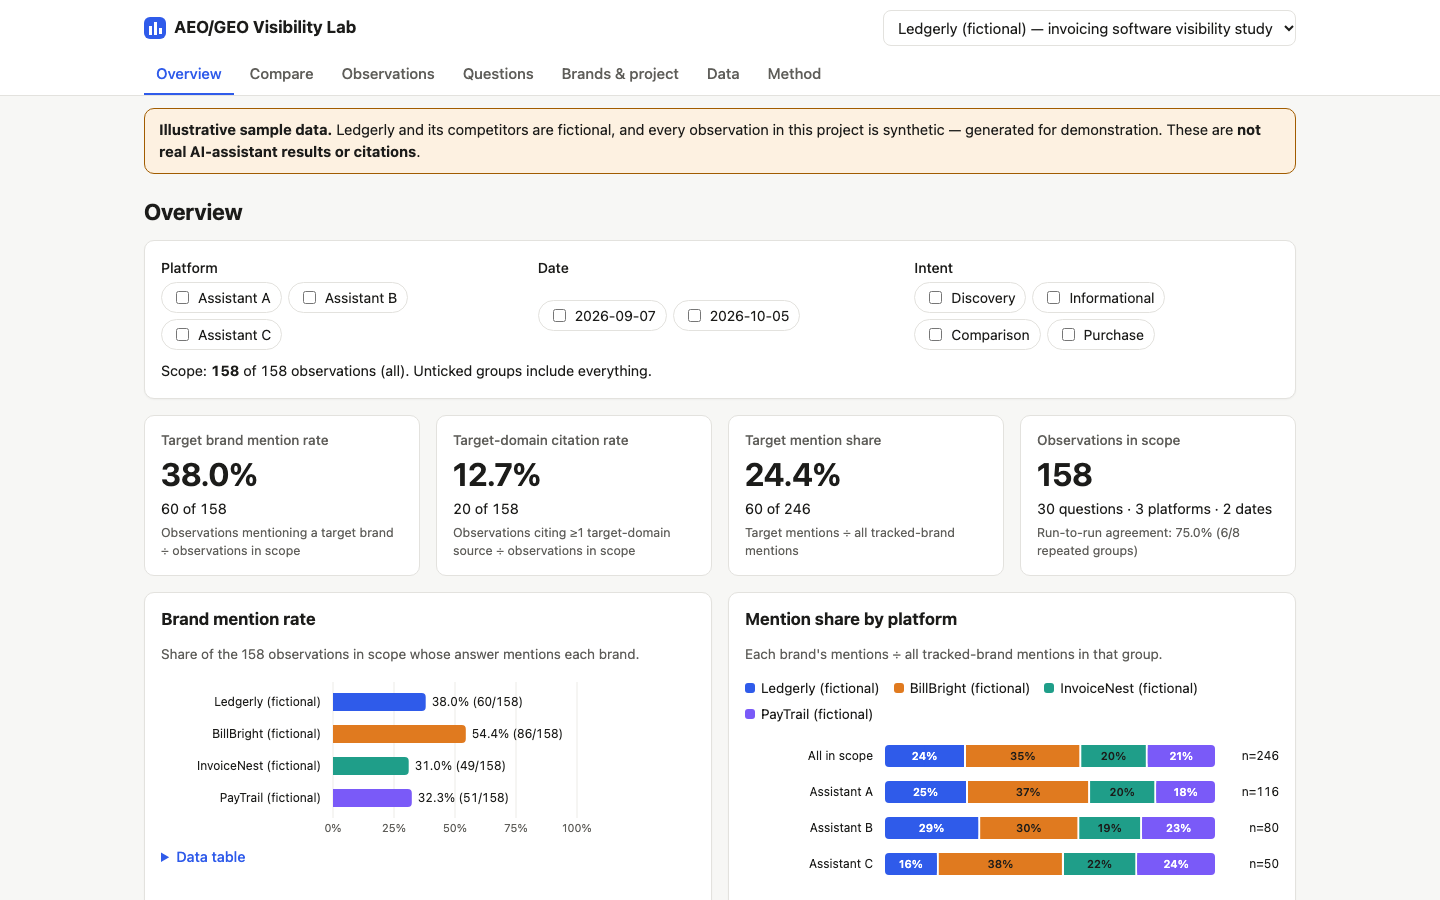
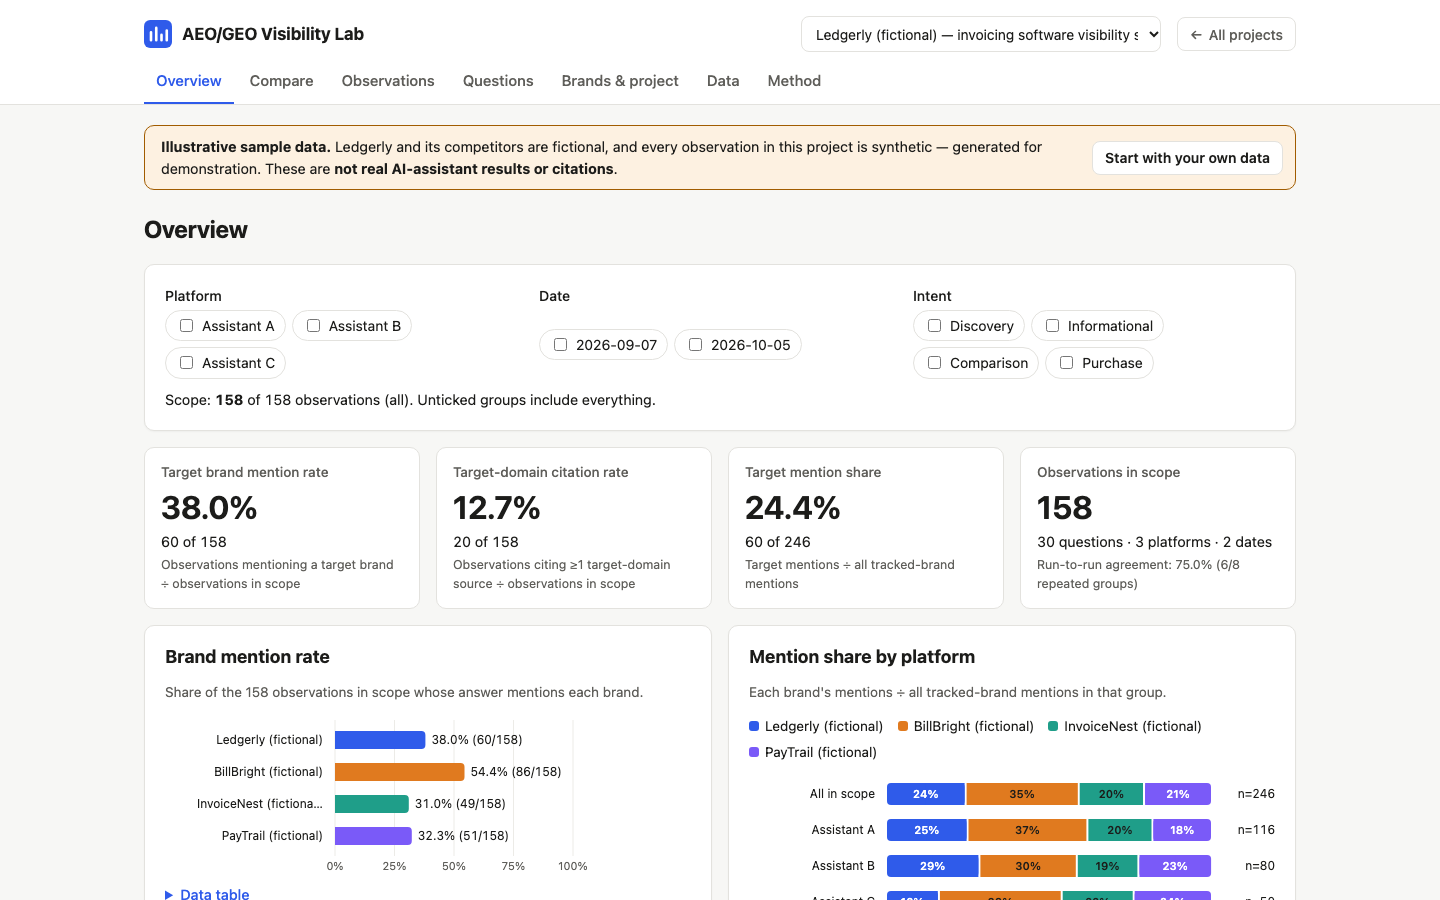
Consistent header and footer, sticky footer, sample loaded on first visit

diff --git a/src/styles.css b/src/styles.css
@@ -66,30 +66,10 @@ code { font-size: 0.9em; background: var(--empty); padding: 1px 4px; border-radi
 .skip-link:focus { left: 8px; }
 
 .container { max-width: 1200px; margin: 0 auto; padding: 0 24px; }
-main.container { padding-top: 20px; padding-bottom: 40px; min-height: 60vh; }
 main:focus { outline: none; }
 
-/* top bar */
-.topbar { background: var(--surface); border-bottom: 1px solid var(--border); position: sticky; top: 0; z-index: 20; }
-.topbar-inner { max-width: 1200px; margin: 0 auto; padding: 10px 24px 0; }
-.brand-row { display: flex; align-items: center; justify-content: space-between; gap: 12px; flex-wrap: wrap; }
-.app-name { display: inline-flex; align-items: center; gap: 8px; font-weight: 700; color: var(--text); text-decoration: none; font-size: 1.05rem; }
-.logo { width: 22px; height: 22px; border-radius: 6px; background: var(--accent);
-  background-image: linear-gradient(to top, #fff 0 0), linear-gradient(to top, #fff 0 0), linear-gradient(to top, #fff 0 0);
-  background-size: 3px 9px, 3px 13px, 3px 6px; background-position: 5px 9px, 10px 5px, 15px 11px; background-repeat: no-repeat; }
-.project-picker select { max-width: min(420px, 70vw); }
-.tabs { display: flex; gap: 4px; overflow-x: auto; margin-top: 8px; scrollbar-width: thin; }
-.tabs a { padding: 8px 12px; color: var(--muted); text-decoration: none; border-bottom: 2px solid transparent; white-space: nowrap; font-weight: 500; }
-.tabs a:hover { color: var(--text); }
-.tabs a[aria-current="page"] { color: var(--accent); border-bottom-color: var(--accent); }
-
-.banner-wrap { max-width: 1200px; margin: 0 auto; padding: 0 24px; }
-.banner { margin-top: 12px; padding: 10px 14px; border-radius: var(--radius); border: 1px solid; font-size: 0.92rem; }
-.banner.illustrative { background: var(--warn-weak); border-color: var(--warn); color: var(--text); }
-.banner.warn { background: var(--bad-weak); border-color: var(--bad); }
 
 /* cards and layout */
-.page-title { font-size: 1.4rem; margin: 4px 0 14px; }
 .card { background: var(--surface); border: 1px solid var(--border); border-radius: var(--radius); padding: 16px; margin-bottom: 16px; box-shadow: var(--shadow); min-width: 0; }
 .grid-2 { display: grid; grid-template-columns: repeat(2, minmax(0, 1fr)); gap: 16px; }
 .grid-2 > .card { margin-bottom: 0; }
@@ -102,7 +82,6 @@ main:focus { outline: none; }
 .small { font-size: 0.85rem; }
 .nowrap { white-space: nowrap; }
 .count { display: inline-block; min-width: 22px; padding: 0 6px; border-radius: 999px; background: var(--empty); color: var(--muted); font-size: 0.8rem; text-align: center; vertical-align: middle; font-weight: 600; }
-.hero h1 { font-size: 1.6rem; }
 .hero form { margin: 16px 0 8px; }
 
 /* tiles */
@@ -214,7 +193,6 @@ details > .table-wrap { margin-top: 8px; }
 .status.show { opacity: 1; transform: translateX(-50%) translateY(0); }
 .status.error { background: var(--bad); color: #fff; }
 
-.footer { border-top: 1px solid var(--border); padding: 18px 0 28px; color: var(--muted); font-size: 0.88rem; background: var(--surface); }
 
 @media (max-width: 900px) {
   .grid-2 { grid-template-columns: minmax(0, 1fr); }
@@ -225,7 +203,7 @@ details > .table-wrap { margin-top: 8px; }
   .filters-grid { grid-template-columns: minmax(0, 1fr); }
 }
 @media (max-width: 600px) {
-  .container, .topbar-inner, .banner-wrap { padding-left: 16px; padding-right: 16px; }
+  .container { padding-left: 16px; padding-right: 16px; }
   .form-grid { grid-template-columns: minmax(0, 1fr); }
   .span-2 { grid-column: auto; }
   .tiles { grid-template-columns: minmax(0, 1fr); }
@@ -233,8 +211,119 @@ details > .table-wrap { margin-top: 8px; }
   .controls, .toolbar { grid-template-columns: minmax(0, 1fr); }
   .toolbar .field:first-child { grid-column: auto; }
   .card { padding: 14px; }
-  .project-picker { width: 100%; }
-  .project-picker select { max-width: 100%; }
 }
 @media (prefers-reduced-motion: reduce) { .status { transition: none; } }
-@media print { .topbar, .footer, .status, .btn { display: none; } }
+@media print { .status, .btn { display: none; } }
+
+/* ===== Shared portfolio chrome v1 — identical in all five Dash-boop0 apps (keep in sync) ===== */
+:root { --chrome-ink: #FFFFFF; --chrome-shadow: 0 1px 2px rgba(0, 0, 0, 0.04); --chrome-gutter: 24px; }
+@media (prefers-color-scheme: dark) { :root { --chrome-ink: #141413; --chrome-shadow: none; } }
+@media (max-width: 600px) { :root { --chrome-gutter: 16px; } }
+
+/* Sticky-footer layout: footer sits at the viewport bottom or after the content, never mid-screen. */
+html { background: var(--bg); }
+body { margin: 0; min-height: 100vh; min-height: 100dvh; display: flex; flex-direction: column; background: var(--bg); }
+main.site-main {
+  flex: 1 0 auto; width: 100%; max-width: 1200px; min-width: 0; margin: 0 auto;
+  padding: 32px var(--chrome-gutter) 48px; outline: none;
+}
+body:has(.site-banner:not(:empty):not([hidden])) main.site-main { padding-top: 24px; }
+
+/* Header */
+.site-header { position: sticky; top: 0; z-index: 30; background: var(--surface); border-bottom: 1px solid var(--border); flex: none; }
+.site-header__inner { max-width: 1200px; margin: 0 auto; padding: 0 var(--chrome-gutter); }
+.site-header__top { display: flex; align-items: center; flex-wrap: wrap; gap: 8px 16px; min-height: 56px; padding-top: 12px; }
+.site-brand {
+  display: inline-flex; align-items: center; gap: 10px; min-width: 0; margin-right: auto; height: 36px;
+  color: var(--text); text-decoration: none; font-size: 1.0625rem; font-weight: 700; letter-spacing: -0.005em; line-height: 1.2;
+}
+.site-brand__icon { width: 28px; height: 28px; flex: none; display: block; }
+.site-brand__icon rect { fill: var(--accent); }
+.site-brand__icon .glyph-s { fill: none; stroke: var(--chrome-ink); stroke-linecap: round; stroke-linejoin: round; }
+.site-brand__icon .glyph-f { fill: var(--chrome-ink); }
+.site-brand__name { min-width: 0; overflow: hidden; text-overflow: ellipsis; white-space: nowrap; }
+.site-header__extra { display: flex; align-items: center; gap: 8px 12px; min-width: 0; font-size: 0.875rem; color: var(--muted); }
+.site-header__extra:empty { display: none; }
+.site-header__extra select { min-height: 36px; max-width: min(360px, 40vw); }
+.site-home {
+  display: inline-flex; align-items: center; gap: 6px; flex: none; height: 34px; padding: 0 12px;
+  border: 1px solid var(--border); border-radius: 8px; background: var(--surface);
+  color: var(--muted); font-size: 0.875rem; font-weight: 500; text-decoration: none; white-space: nowrap;
+}
+.site-home:hover { color: var(--text); border-color: var(--accent); }
+.site-tabs {
+  display: flex; gap: 4px; margin: 4px calc(-1 * var(--chrome-gutter)) 0; padding: 0 var(--chrome-gutter);
+  overflow-x: auto; overscroll-behavior-x: contain; scrollbar-width: none; -webkit-overflow-scrolling: touch;
+}
+.site-tabs::-webkit-scrollbar { display: none; }
+.site-tabs a {
+  flex: none; display: block; padding: 10px 12px 11px; border-bottom: 2px solid transparent;
+  color: var(--muted); font-size: 0.9375rem; font-weight: 500; line-height: 1.4; text-decoration: none; white-space: nowrap;
+}
+.site-tabs a:hover { color: var(--text); }
+.site-tabs a[aria-current="page"] { color: var(--accent); border-bottom-color: var(--accent); }
+.site-tabs a:focus-visible { outline: 3px solid var(--accent); outline-offset: -3px; border-radius: 6px; }
+
+/* Synthetic-data banner (with "Start with your own data") */
+.site-banner { width: 100%; max-width: 1200px; margin: 0 auto; padding: 20px var(--chrome-gutter) 0; flex: none; }
+.site-banner:empty, .site-banner[hidden] { display: none; }
+.sample-banner {
+  display: flex; align-items: center; justify-content: space-between; flex-wrap: wrap; gap: 10px 16px;
+  margin: 0; padding: 10px 12px 10px 16px; border: 1px solid var(--warn); border-radius: 10px;
+  background: var(--warn-weak); color: var(--text); font-size: 0.9rem; line-height: 1.5;
+}
+.sample-banner + .sample-banner { margin-top: 8px; }
+.sample-banner.is-error { border-color: var(--bad); background: var(--bad-weak); }
+.sample-banner.is-info { border-color: var(--border); background: var(--surface); }
+.sample-banner__text { flex: 1 1 420px; min-width: 0; margin: 0; }
+.sample-banner__text strong { color: var(--text); }
+.sample-banner__action {
+  flex: none; display: inline-flex; align-items: center; justify-content: center; min-height: 34px; padding: 0 12px;
+  border: 1px solid var(--border); border-radius: 8px; background: var(--surface); color: var(--text);
+  font: inherit; font-size: 0.875rem; font-weight: 600; white-space: nowrap; cursor: pointer;
+}
+.sample-banner__action:hover { border-color: var(--accent); color: var(--accent); }
+
+/* Page titles and cards */
+:where(.site-main) h2 { font-size: 1.125rem; }
+:where(.site-main) h3 { font-size: 1rem; }
+.site-main h1 { font-size: 1.5rem; font-weight: 700; line-height: 1.25; letter-spacing: -0.01em; margin: 0 0 20px; }
+.site-main .page-head:has(h1) { display: flex; flex-wrap: wrap; align-items: flex-end; justify-content: space-between; gap: 8px 16px; margin: 0 0 20px; }
+.site-main .page-head h1 { margin: 0; }
+.site-main .page-head:has(h1) p, .site-main .page-head:has(h1) > .muted, .site-main .page-lead { margin: 4px 0 0; color: var(--muted); max-width: 75ch; }
+:where(.site-main) .card { border: 1px solid var(--border); border-radius: 10px; background: var(--surface); padding: 20px; box-shadow: var(--chrome-shadow); }
+:where(.site-main) .card.empty, :where(.site-main) .empty-state { padding: 48px 24px; text-align: center; }
+:where(.site-main) .card.empty > *, :where(.site-main) .empty-state > * { margin-left: auto; margin-right: auto; max-width: 560px; }
+:where(.site-main) .card.empty h2, :where(.site-main) .empty-state h2, :where(.site-main) .empty-state h3 { font-size: 1.15rem; margin-bottom: 8px; }
+
+/* Footer */
+.site-footer { flex: none; margin-top: auto; border-top: 1px solid var(--border); background: var(--bg); color: var(--muted); font-size: 0.875rem; line-height: 1.5; }
+.site-footer__inner {
+  max-width: 1200px; margin: 0 auto; padding: 24px var(--chrome-gutter);
+  display: flex; flex-wrap: wrap; align-items: center; justify-content: space-between; gap: 8px 24px;
+}
+.site-footer__links { display: flex; flex-wrap: wrap; gap: 6px 20px; }
+.site-footer a { color: var(--muted); text-decoration: underline; text-underline-offset: 3px; }
+.site-footer a:hover { color: var(--text); }
+.site-footer__note { margin: 0; }
+
+@media (max-width: 600px) {
+  main.site-main { padding-top: 20px; padding-bottom: 32px; }
+  body:has(.site-banner:not(:empty):not([hidden])) main.site-main { padding-top: 20px; }
+  .site-header__top { padding-top: 10px; gap: 8px 12px; }
+  .site-brand { font-size: 1rem; height: auto; min-height: 36px; max-width: calc(100% - 144px); }
+  .site-brand__name { white-space: normal; overflow: visible; }
+  .site-header__extra { order: 3; flex: 1 1 100%; }
+  .site-header__extra select { max-width: 100%; width: 100%; }
+  .site-tabs { margin-top: 2px; }
+  .site-tabs a { padding: 10px 10px 11px; }
+  .site-banner { padding-top: 16px; }
+  .sample-banner__action { width: 100%; }
+  .site-main h1 { font-size: 1.3rem; margin-bottom: 16px; }
+  .site-main .page-head:has(h1) { margin-bottom: 16px; }
+  :where(.site-main) .card { padding: 16px; }
+  :where(.site-main) .card.empty, :where(.site-main) .empty-state { padding: 32px 16px; }
+  .site-footer__inner { padding-top: 20px; padding-bottom: 20px; flex-direction: column; align-items: flex-start; }
+}
+@media print { .site-header, .site-footer, .site-banner .sample-banner__action { display: none; } }
+/* ===== end shared portfolio chrome ===== */

diff --git a/src/app.js b/src/app.js
@@ -1,5 +1,5 @@
 // App shell: state, routing, rendering and event delegation.
-import { loadState, saveState, clearState } from './store.js';
+import { loadState, saveState, clearState, startEmptyChosen, rememberStartEmpty } from './store.js';
 import { buildSampleProject, SAMPLE_PROJECT_ID } from './lib/sample.js';
 import { createEmptyState } from './lib/model.js';
 import { esc } from './ui/util.js';
@@ -30,6 +30,12 @@ const INPUTS = merge('inputs');
 const loaded = loadState();
 let state = loaded.state;
 let storageWarning = loaded.warning;
+// First visit (nothing saved, sample not declined): open the illustrative sample so the dashboard is populated.
+if (!loaded.found && !startEmptyChosen()) {
+  const sample = buildSampleProject();
+  state = { ...state, projects: [...state.projects, sample], activeProjectId: sample.id };
+  if (!storageWarning) saveState(state);
+}
 
 function freshUi() {
   return {
@@ -109,15 +115,16 @@ function renderHeader(current) {
   const p = ctx.project;
   const parts = [];
   if (p?.illustrative) {
-    parts.push('<div class="banner illustrative" role="note"><strong>Illustrative sample data.</strong> Ledgerly and its competitors are fictional, and every observation in this project is synthetic — generated for demonstration. These are <strong>not real AI-assistant results or citations</strong>.</div>');
+    parts.push('<div class="sample-banner" role="note"><p class="sample-banner__text"><strong>Illustrative sample data.</strong> Ledgerly and its competitors are fictional, and every observation in this project is synthetic — generated for demonstration. These are <strong>not real AI-assistant results or citations</strong>.</p><button type="button" class="sample-banner__action" data-action="start-own">Start with your own data</button></div>');
   }
-  if (storageWarning) parts.push(`<div class="banner warn" role="alert">${esc(storageWarning)}</div>`);
+  if (storageWarning) parts.push(`<div class="sample-banner is-error" role="alert"><p class="sample-banner__text">${esc(storageWarning)}</p></div>`);
   banner.innerHTML = parts.join('');
 }
 
 function welcome() {
-  return `<section class="hero card">
-    <h1>AEO/GEO Visibility Research Lab</h1>
+  return `<h1 class="page-title">Get started</h1>
+  <section class="hero card">
+    <h2>AEO/GEO Visibility Research Lab</h2>
     <p>Record how AI assistants answer a fixed set of buyer questions: which brands they mention and which sources they cite.
     Then measure brand mention rate, target-domain citation rate, mention share and citation sources — with sample sizes on every number.</p>
     <p class="muted">Everything stays in your browser. No accounts, no API keys, no scraping.</p>
@@ -167,9 +174,16 @@ ACTIONS['load-sample'] = (el, c) => {
     `Loaded the illustrative sample: ${sample.questions.length} questions, ${sample.observations.length} synthetic observations.`);
   if (route() !== 'overview') location.hash = '#/overview';
 };
+ACTIONS['start-own'] = (el, c) => {
+  rememberStartEmpty();
+  c.commitState((s) => ({ ...s, projects: s.projects.filter((p) => p.id !== SAMPLE_PROJECT_ID) }),
+    'Sample removed. Create a project or restore a backup to start with your own data.');
+  if (route() !== 'overview' && route() !== 'method') location.hash = '#/overview';
+};
 ACTIONS.reset = (el, c) => {
   if (!window.confirm('Delete ALL projects and data stored in this browser? Download a backup first if you need one.')) return;
   clearState();
+  rememberStartEmpty();
   c.commitState(() => createEmptyState(), 'All data deleted.');
 };
 CHANGES['project-picker'] = (el, c) => c.switchProject(el.value);

diff --git a/src/store.js b/src/store.js
@@ -3,22 +3,24 @@
 import { createEmptyState, validateState } from './lib/model.js';
 
 export const STORAGE_KEY = 'aeoGeoVisibilityLab.v1';
+/** Set when the visitor chose to start empty (or reset), so the sample is not auto-loaded again. */
+export const START_EMPTY_KEY = `${STORAGE_KEY}.startEmpty`;
 
-/** Load saved state. Returns { state, warning }. */
+/** Load saved state. Returns { state, warning, found } — found is false only when nothing was saved. */
 export function loadState() {
   let raw = null;
   try {
     raw = window.localStorage.getItem(STORAGE_KEY);
   } catch {
-    return { state: createEmptyState(), warning: 'Browser storage is unavailable, so changes will not be saved after you close this tab. Use "Back up data" to keep a copy.' };
+    return { state: createEmptyState(), found: false, warning: 'Browser storage is unavailable, so changes will not be saved after you close this tab. Use "Back up data" to keep a copy.' };
   }
-  if (!raw) return { state: createEmptyState(), warning: '' };
+  if (!raw) return { state: createEmptyState(), warning: '', found: false };
   try {
     const result = validateState(JSON.parse(raw));
-    if (result.ok) return { state: result.state, warning: '' };
-    return { state: createEmptyState(), warning: `Saved data could not be read (${result.errors[0]}). Starting empty — restore a backup if you have one.` };
+    if (result.ok) return { state: result.state, warning: '', found: true };
+    return { state: createEmptyState(), found: true, warning: `Saved data could not be read (${result.errors[0]}). Starting empty — restore a backup if you have one.` };
   } catch {
-    return { state: createEmptyState(), warning: 'Saved data was corrupted and could not be read. Starting empty — restore a backup if you have one.' };
+    return { state: createEmptyState(), found: true, warning: 'Saved data was corrupted and could not be read. Starting empty — restore a backup if you have one.' };
   }
 }
 
@@ -34,4 +36,13 @@ export function saveState(state) {
 
 export function clearState() {
   try { window.localStorage.removeItem(STORAGE_KEY); } catch { /* ignore */ }
+}
+
+/** True when the visitor previously chose to start empty or reset everything. */
+export function startEmptyChosen() {
+  try { return window.localStorage.getItem(START_EMPTY_KEY) === '1'; } catch { return false; }
+}
+
+export function rememberStartEmpty() {
+  try { window.localStorage.setItem(START_EMPTY_KEY, '1'); } catch { /* storage unavailable */ }
 }

diff --git a/index.html b/index.html
@@ -11,24 +11,28 @@
 </head>
 <body>
   <a class="skip-link" href="#main">Skip to content</a>
-  <header class="topbar">
-    <div class="topbar-inner">
-      <div class="brand-row">
-        <a class="app-name" href="#/overview"><span class="logo" aria-hidden="true"></span>AEO/GEO Visibility Lab</a>
-        <div id="project-picker" class="project-picker"></div>
+  <header class="site-header">
+    <div class="site-header__inner">
+      <div class="site-header__top">
+        <a class="site-brand" href="#/overview"><svg class="site-brand__icon" viewBox="0 0 32 32" aria-hidden="true" focusable="false"><rect width="32" height="32" rx="7"/><path class="glyph-s" stroke-width="3" d="M8 23V14M14 23V9M20 23V17M26 23V12"/></svg><span class="site-brand__name">AEO/GEO Visibility Lab</span></a>
+        <div id="project-picker" class="site-header__extra"></div>
+        <a class="site-home" href="https://dash-boop0.github.io/"><span aria-hidden="true">←</span> All projects</a>
       </div>
-      <nav id="tabs" class="tabs" aria-label="Main sections"></nav>
+      <nav id="tabs" class="site-tabs" aria-label="Main sections"></nav>
     </div>
   </header>
-  <div id="banner" class="banner-wrap"></div>
-  <main id="main" class="container" tabindex="-1">
+  <div id="banner" class="site-banner"></div>
+  <main id="main" class="site-main" tabindex="-1">
     <noscript><p class="notice bad">This app needs JavaScript. It runs entirely in your browser and sends no data anywhere.</p></noscript>
   </main>
-  <footer class="footer">
-    <div class="container">
-      Portfolio project by <a href="https://dash-boop0.github.io/">Dash-boop0</a> ·
-      <a href="https://github.com/Dash-boop0/aeo-geo-visibility-lab">Source on GitHub</a> ·
-      Sample data is synthetic
+  <footer class="site-footer">
+    <div class="site-footer__inner">
+      <nav class="site-footer__links" aria-label="Portfolio links">
+        <a href="https://dash-boop0.github.io/"><span aria-hidden="true">←</span> All projects</a>
+        <a href="https://github.com/Dash-boop0/aeo-geo-visibility-lab">Source on GitHub</a>
+        <a href="https://github.com/Dash-boop0/aeo-geo-visibility-lab/blob/main/LICENSE">MIT licence</a>
+      </nav>
+      <p class="site-footer__note">Sample data is synthetic · Your data stays in this browser</p>
     </div>
   </footer>
   <div id="status" class="status" role="status" aria-live="polite"></div>

diff --git a/README.md b/README.md
@@ -69,7 +69,9 @@ There is nothing to install and no build step. GitHub Pages serves the repositor
 
 ## How to use
 
-1. **Load the illustrative sample** to explore, or **create an empty project**.
+1. Your first visit opens the **illustrative sample** project automatically. To use your own data, click
+   **Start with your own data** in the sample banner (this choice is remembered), then **create an empty project**.
+   You can load the sample again at any time; saved data is never overwritten by it.
 2. **Brands & project**: add your brand as *target* and each competitor, with their domains.
 3. **Questions**: add your fixed buyer questions or import `sample-data/questions-template.csv`.
 4. **Observations**: ask each assistant each question (new chat, same wording every round) and log the answer —

diff --git a/docs/DEMO.md b/docs/DEMO.md
@@ -6,7 +6,7 @@ Open the live demo (https://dash-boop0.github.io/aeo-geo-visibility-lab/) or run
 questions, log what they say and cite, and measure brand visibility with sample sizes on every number. The data
 you'll see is a fictional, synthetic sample — the banner says so on every page."
 
-**0:15 — Load the sample (10 s).** Click **Load illustrative sample project**. Point at the orange banner:
+**0:15 — The sample (10 s).** The illustrative sample project opens automatically on first visit (or click **Load illustrative sample project**). Point at the orange banner:
 fictional brands, synthetic observations, not real AI results.
 
 **0:25 — Overview (30 s).**
